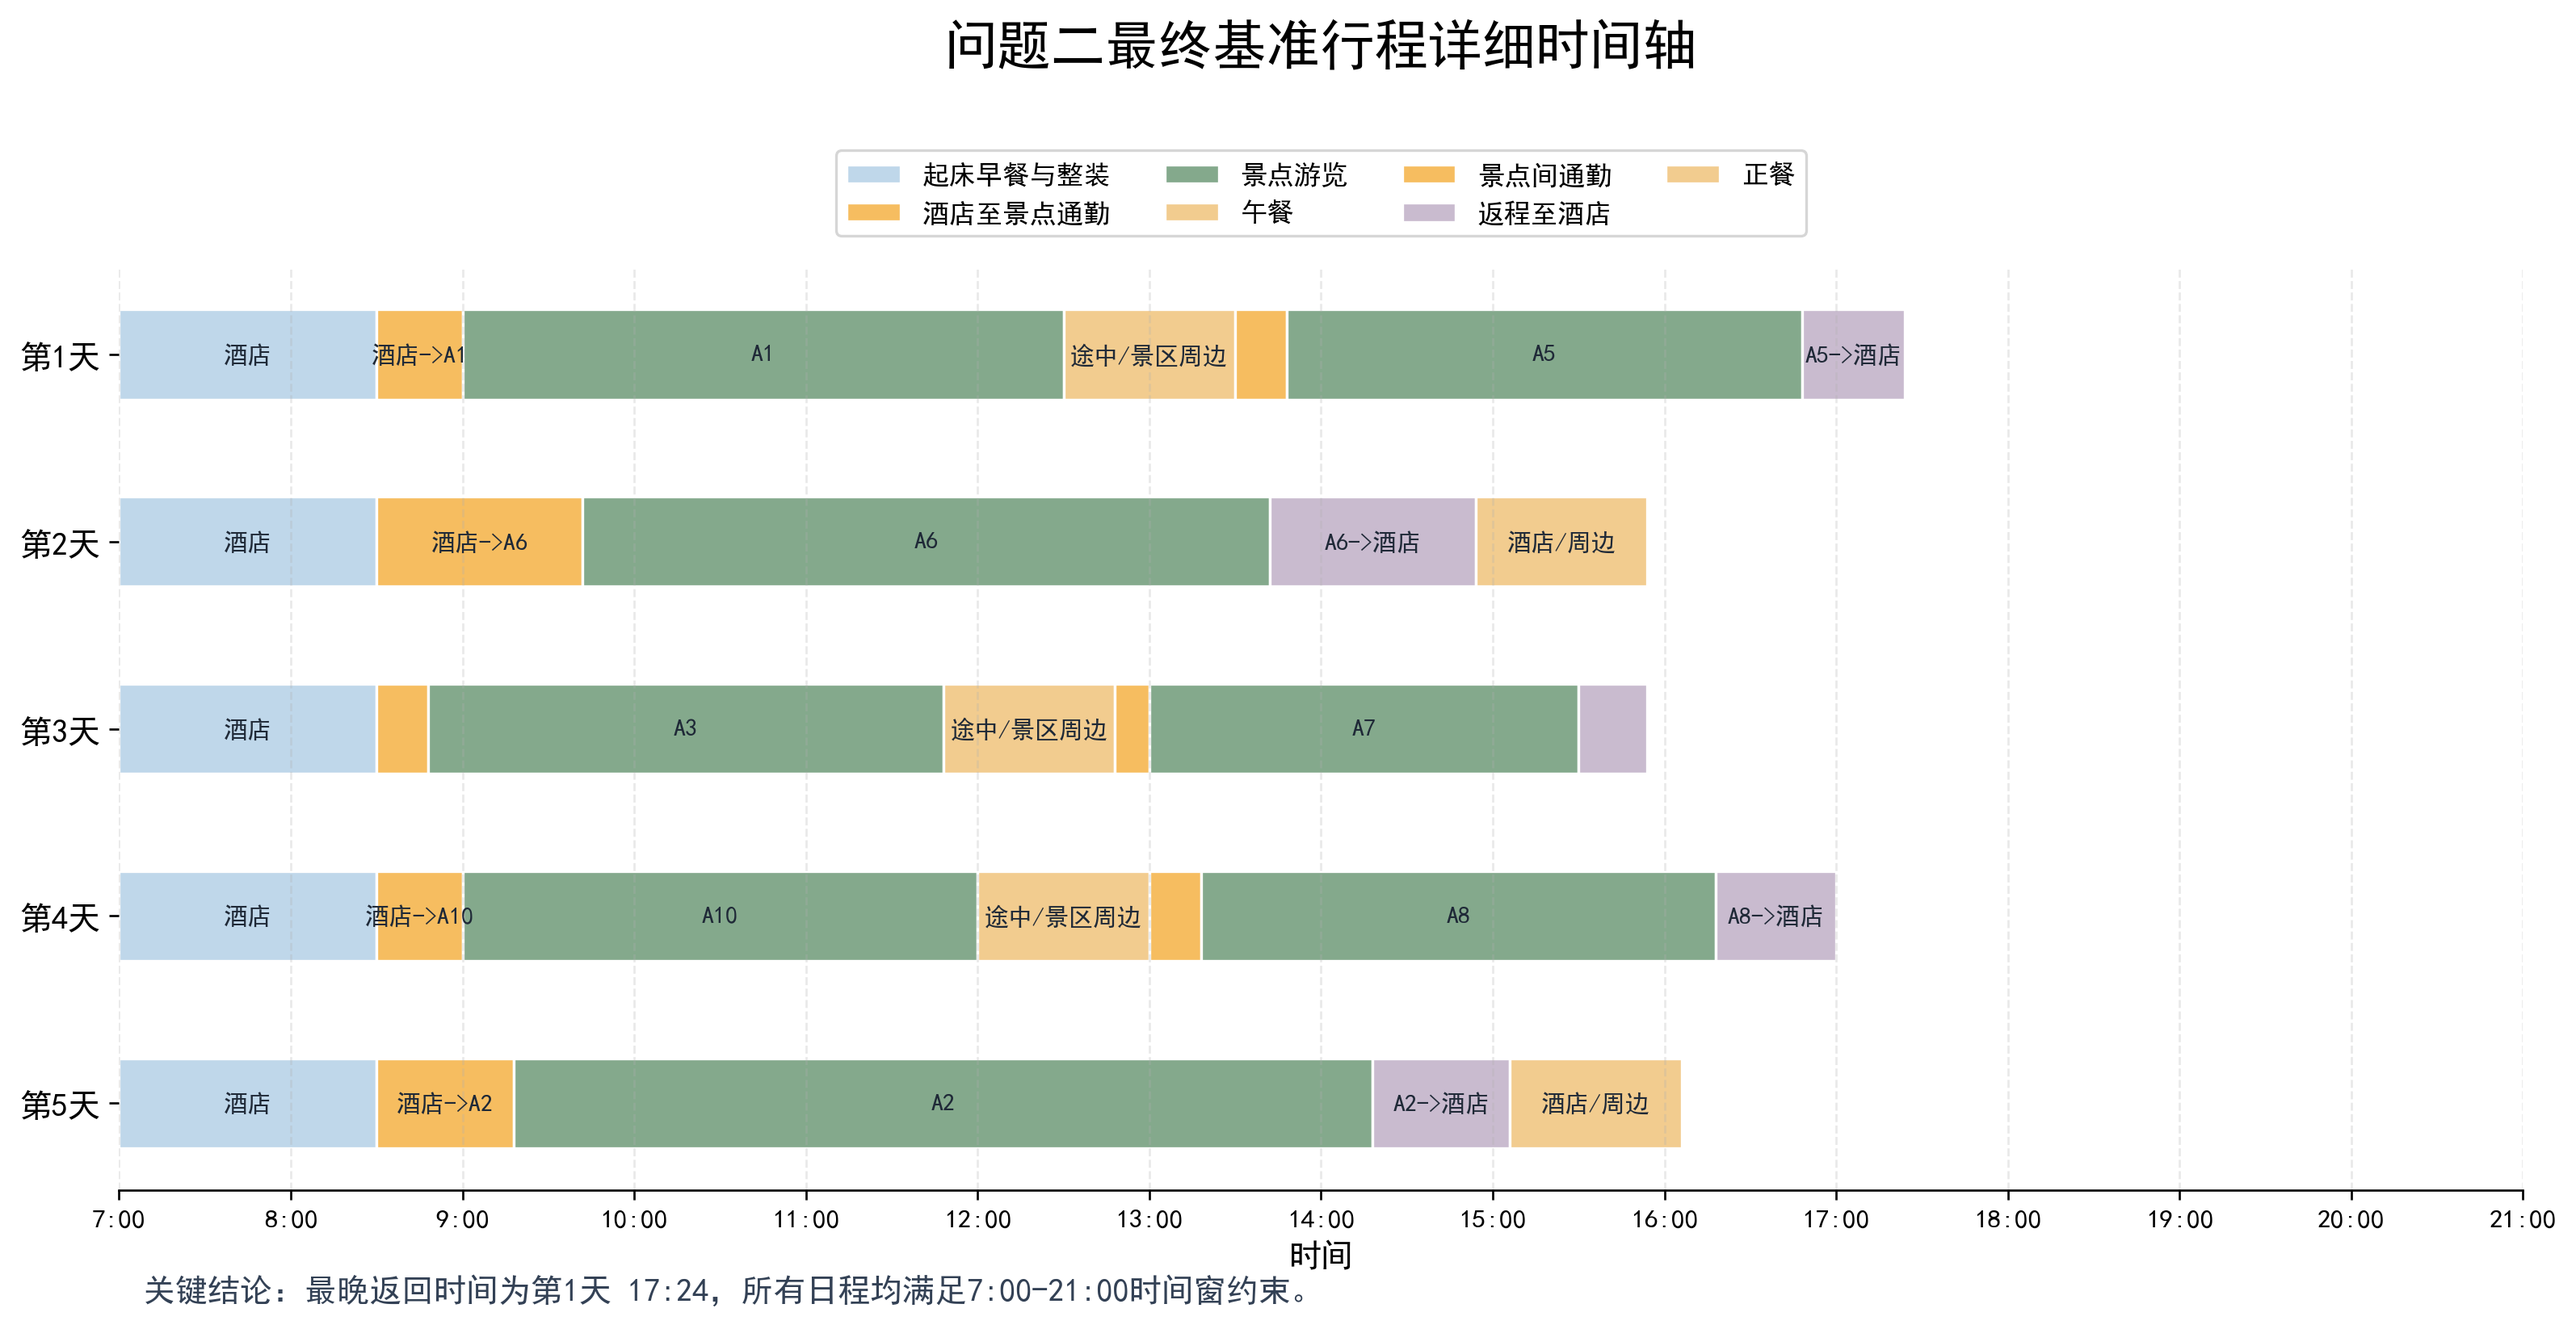
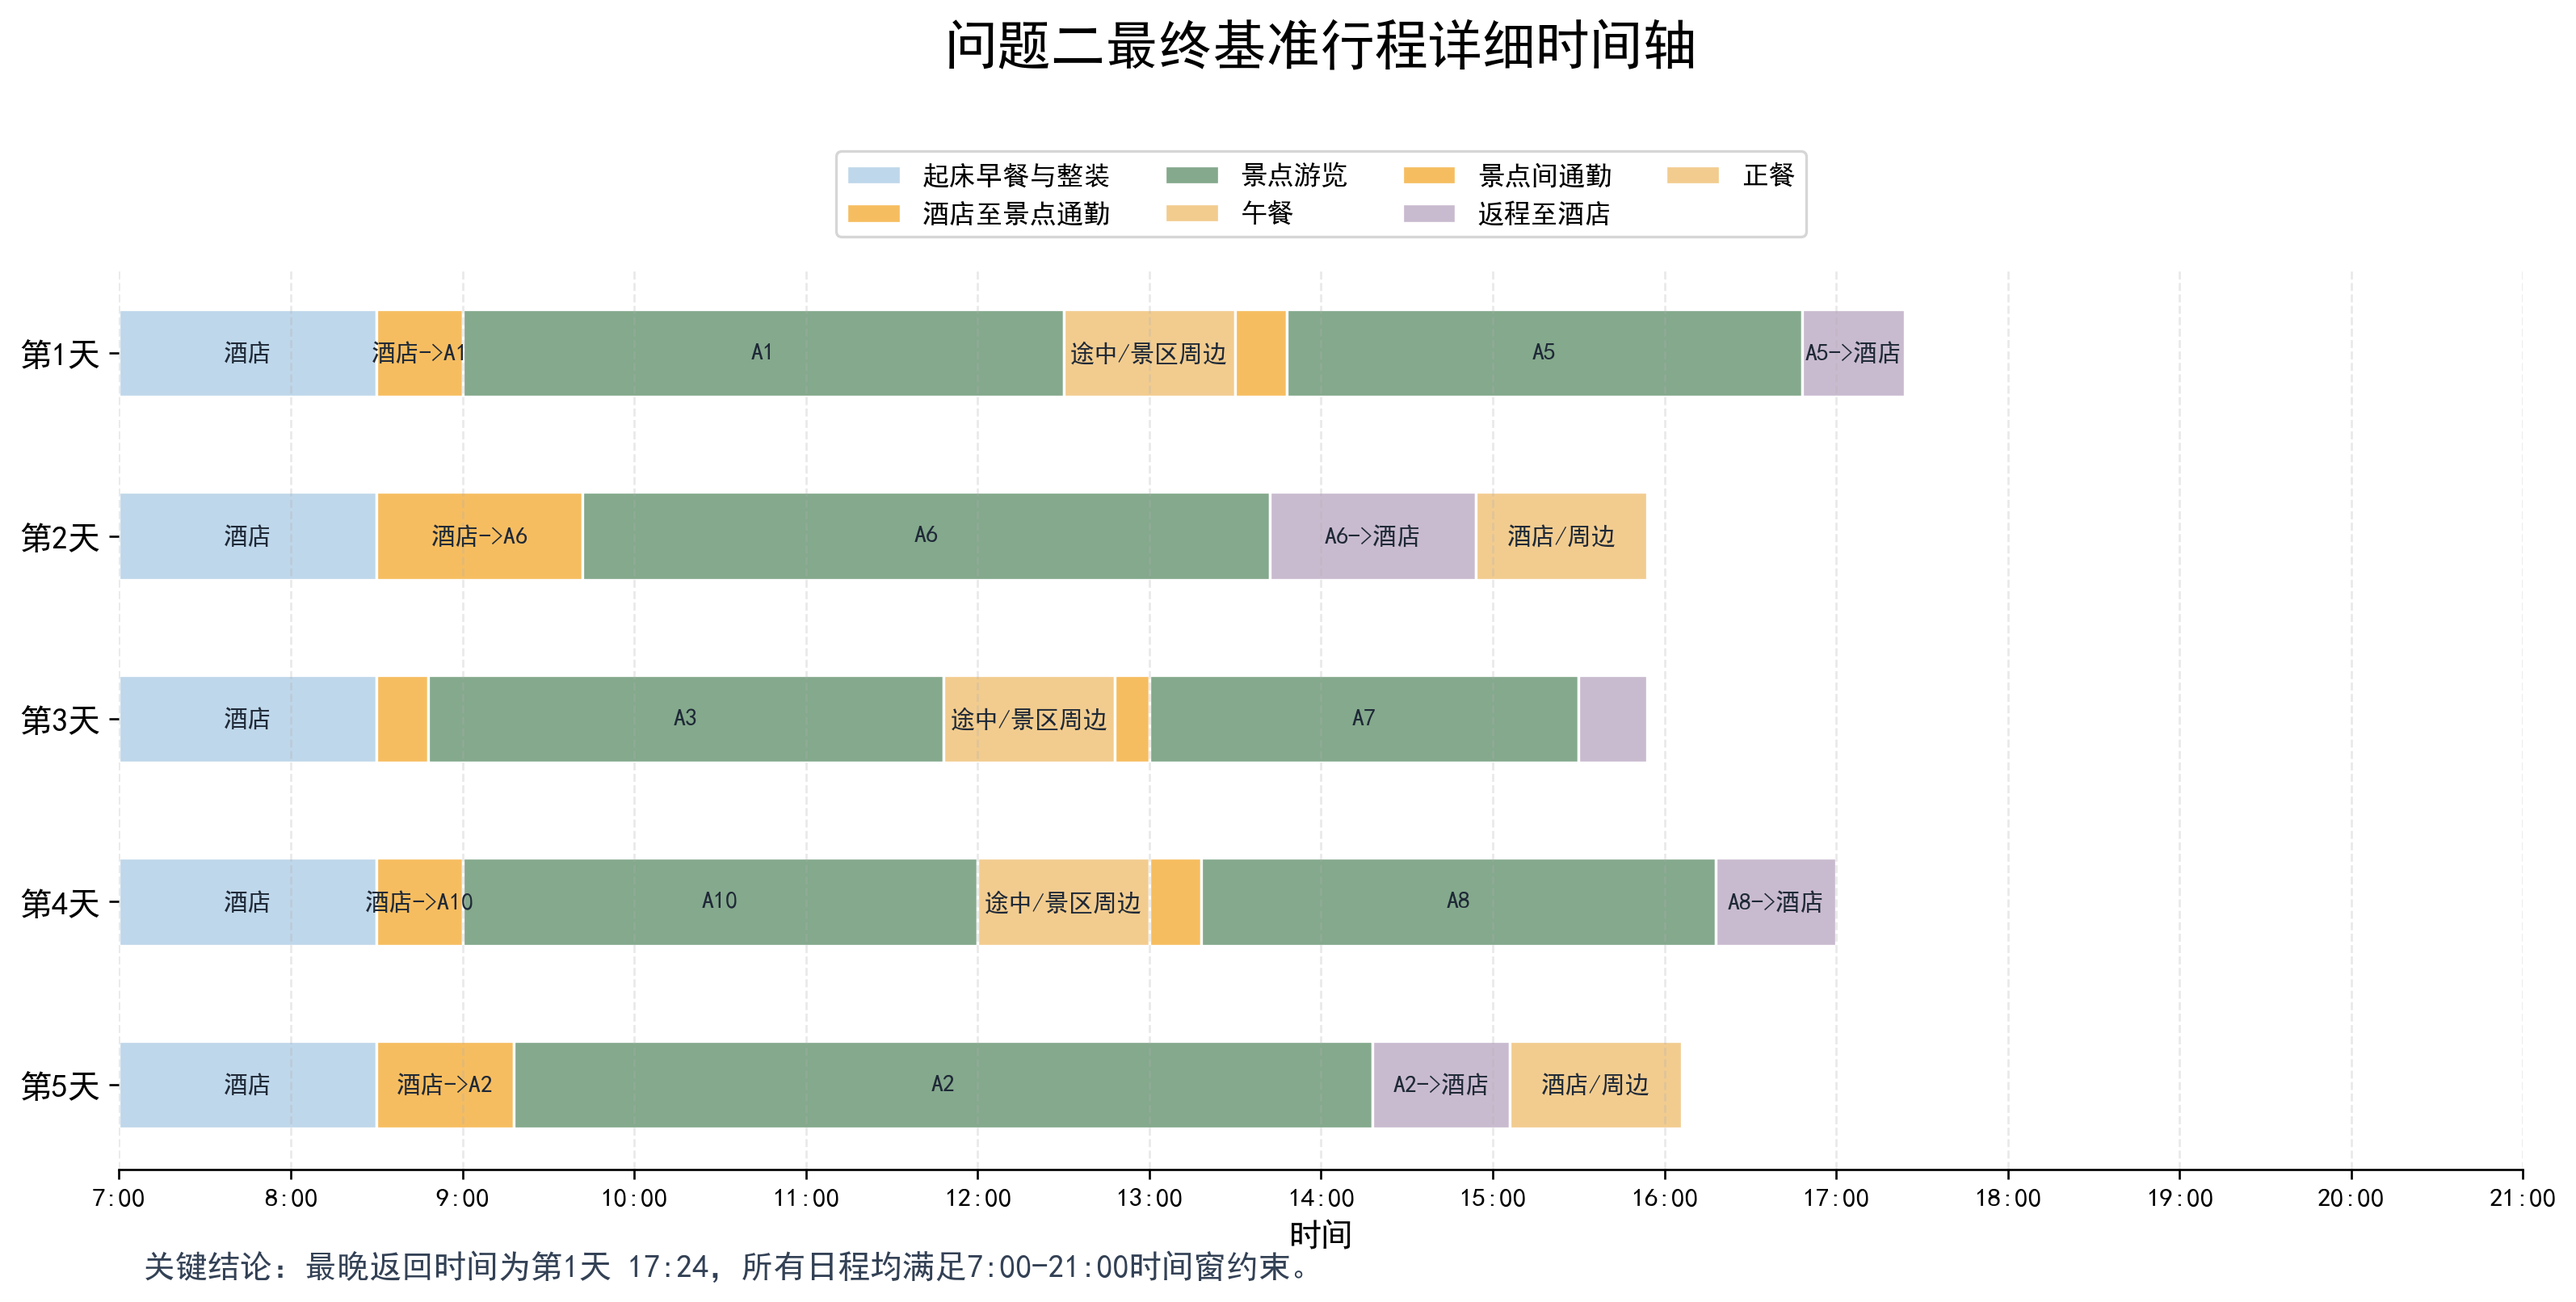
修改后 问题一二

diff --git a/code/render_problem2_schedule_images.py b/code/render_problem2_schedule_images.py
@@ -1,5 +1,5 @@
 """
-Render clean images for Problem 2 itinerary and timeline tables.
+Render clean images for Problem 2 itinerary and timeline.
 
 Dependencies:
     pip install pandas matplotlib
@@ -27,7 +27,7 @@ FIGURE_DIR = ROOT / "results" / "figures"
 
 
 def setup_style() -> None:
-    """Use common Chinese fonts and a restrained paper-style palette."""
+    """Configure a restrained paper-style plotting theme."""
 
     plt.rcParams["font.sans-serif"] = ["SimHei", "Microsoft YaHei", "Arial Unicode MS"]
     plt.rcParams["axes.unicode_minus"] = False
@@ -35,18 +35,40 @@ def setup_style() -> None:
 
 
 def time_to_hour(value: str) -> float:
-    """Convert HH:MM to decimal hour for timeline plotting."""
+    """Convert HH:MM text into decimal hours for Gantt plotting."""
 
-    hour, minute = value.split(":")
+    hour, minute = str(value).split(":")
     return int(hour) + int(minute) / 60
 
 
+def format_hour(value: float) -> str:
+    """Convert decimal hours into HH:MM text."""
+
+    total_minutes = int(round(value * 60))
+    hour = total_minutes // 60
+    minute = total_minutes % 60
+    return f"{hour:02d}:{minute:02d}"
+
+
+def read_csv_utf8(path: Path) -> pd.DataFrame:
+    """Read CSV with BOM-friendly UTF-8 encoding."""
+
+    if not path.exists():
+        raise FileNotFoundError(f"找不到输入文件：{path}")
+    return pd.read_csv(path, encoding="utf-8-sig")
+
+
 def render_itinerary_overview(itinerary: pd.DataFrame) -> Path:
-    """Render a compact 5-day itinerary table."""
+    """Render a compact overview table for the 5-day baseline itinerary."""
+
+    required_columns = ["日期", "访问顺序", "景点名称", "行车时间min", "总活动耗时h", "预计回到酒店"]
+    missing = [col for col in required_columns if col not in itinerary.columns]
+    if missing:
+        raise ValueError(f"行程总览表缺少字段：{missing}")
 
     display = itinerary.copy()
-    display["行车时间"] = display["行车时间min"].map(lambda x: f"{x:.0f} min")
-    display["总活动耗时"] = display["总活动耗时h"].map(lambda x: f"{x:.1f} h")
+    display["行车时间"] = display["行车时间min"].map(lambda value: f"{float(value):.0f} min")
+    display["总活动耗时"] = display["总活动耗时h"].map(lambda value: f"{float(value):.1f} h")
     display = display[["日期", "访问顺序", "景点名称", "行车时间", "总活动耗时", "预计回到酒店"]]
 
     fig, ax = plt.subplots(figsize=(15, 5.8))
@@ -68,7 +90,7 @@ def render_itinerary_overview(itinerary: pd.DataFrame) -> Path:
     header_color = "#D9EAF7"
     stripe_color = "#F6F8FA"
     edge_color = "#B9C4CC"
-    for (row, col), cell in table.get_celld().items():
+    for (row, _), cell in table.get_celld().items():
         cell.set_edgecolor(edge_color)
         cell.set_linewidth(0.8)
         if row == 0:
@@ -79,11 +101,11 @@ def render_itinerary_overview(itinerary: pd.DataFrame) -> Path:
         else:
             cell.set_facecolor("white")
 
-    max_duration = display["总活动耗时"].str.replace(" h", "", regex=False).astype(float).max()
-    min_duration = display["总活动耗时"].str.replace(" h", "", regex=False).astype(float).min()
+    max_duration = itinerary["总活动耗时h"].astype(float).max()
+    min_duration = itinerary["总活动耗时h"].astype(float).min()
     note = (
-        f"关键结论：5天均在21:00前返回酒店，总活动耗时极差为{max_duration - min_duration:.1f}小时，"
-        "整体节奏较均衡。"
+        f"关键结论：5天均在21:00前返回酒店，总活动耗时极差为"
+        f"{max_duration - min_duration:.1f}小时，整体节奏较均衡。"
     )
     ax.text(0.02, 0.02, note, transform=ax.transAxes, fontsize=12, color="#334155")
 
@@ -96,13 +118,18 @@ def render_itinerary_overview(itinerary: pd.DataFrame) -> Path:
 def render_timeline_gantt(timeline: pd.DataFrame) -> Path:
     """Render a readable Gantt-style timeline chart."""
 
+    required_columns = ["日期", "环节", "地点", "开始时间", "结束时间"]
+    missing = [col for col in required_columns if col not in timeline.columns]
+    if missing:
+        raise ValueError(f"详细时间轴表缺少字段：{missing}")
+
     data = timeline.copy()
     data["start_h"] = data["开始时间"].map(time_to_hour)
     data["end_h"] = data["结束时间"].map(time_to_hour)
     data["duration_h"] = data["end_h"] - data["start_h"]
 
-    days = ["第1天", "第2天", "第3天", "第4天", "第5天"]
-    y_positions = {day: len(days) - idx for idx, day in enumerate(days)}
+    days = sorted(data["日期"].unique(), key=lambda text: int(str(text).replace("第", "").replace("天", "")))
+    y_positions = {day: len(days) - index for index, day in enumerate(days)}
     colors = {
         "起床早餐与整装": "#BFD7EA",
         "酒店至景点通勤": "#F6BD60",
@@ -114,7 +141,7 @@ def render_timeline_gantt(timeline: pd.DataFrame) -> Path:
         "等待开园": "#DAD7CD",
     }
 
-    fig, ax = plt.subplots(figsize=(16, 7))
+    fig, ax = plt.subplots(figsize=(16, 7.5))
     for _, row in data.iterrows():
         y = y_positions[row["日期"]]
         label = row["环节"]
@@ -128,12 +155,11 @@ def render_timeline_gantt(timeline: pd.DataFrame) -> Path:
             linewidth=1.0,
             label=label,
         )
-        text = row["地点"]
         if row["duration_h"] >= 0.45:
             ax.text(
                 row["start_h"] + row["duration_h"] / 2,
                 y,
-                text,
+                row["地点"],
                 va="center",
                 ha="center",
                 fontsize=9,
@@ -141,10 +167,10 @@ def render_timeline_gantt(timeline: pd.DataFrame) -> Path:
             )
 
     handles, labels = ax.get_legend_handles_labels()
-    unique = dict(zip(labels, handles))
+    unique_legend = dict(zip(labels, handles))
     ax.legend(
-        unique.values(),
-        unique.keys(),
+        unique_legend.values(),
+        unique_legend.keys(),
         loc="lower center",
         bbox_to_anchor=(0.5, 1.02),
         ncol=4,
@@ -155,7 +181,7 @@ def render_timeline_gantt(timeline: pd.DataFrame) -> Path:
     ax.set_yticklabels(days, fontsize=12)
     ax.set_xlim(7, 21)
     ax.set_xticks(range(7, 22))
-    ax.set_xticklabels([f"{hour}:00" for hour in range(7, 22)], rotation=0)
+    ax.set_xticklabels([f"{hour}:00" for hour in range(7, 22)])
     ax.set_xlabel("时间", fontsize=12)
     ax.set_title("问题二最终基准行程详细时间轴", fontsize=20, fontweight="bold", pad=76)
     ax.grid(axis="x", linestyle="--", alpha=0.28)
@@ -164,18 +190,14 @@ def render_timeline_gantt(timeline: pd.DataFrame) -> Path:
     day_end = data.groupby("日期")["end_h"].max()
     latest_day = day_end.idxmax()
     latest_time = day_end.max()
-    ax.text(
-        0.01,
-        -0.12,
-        f"关键结论：最晚返回时间为{latest_day} {int(latest_time):02d}:{int(round((latest_time % 1) * 60)):02d}，"
-        "所有日程均满足7:00-21:00时间窗约束。",
-        transform=ax.transAxes,
-        fontsize=12,
-        color="#334155",
+    note = (
+        f"关键结论：最晚返回时间为{latest_day} {format_hour(latest_time)}，"
+        "所有日程均满足7:00-21:00时间窗约束。"
     )
+    ax.text(0.01, -0.12, note, transform=ax.transAxes, fontsize=12, color="#334155")
 
     output = FIGURE_DIR / "problem2_timeline_gantt.png"
-    fig.subplots_adjust(top=0.84, bottom=0.16)
+    fig.subplots_adjust(top=0.78, bottom=0.16)
     fig.savefig(output, dpi=240, bbox_inches="tight")
     plt.close(fig)
     return output
@@ -184,10 +206,13 @@ def render_timeline_gantt(timeline: pd.DataFrame) -> Path:
 def main() -> None:
     setup_style()
     FIGURE_DIR.mkdir(parents=True, exist_ok=True)
-    itinerary = pd.read_csv(PROCESSED_DIR / "problem2_baseline_itinerary.csv", encoding="utf-8-sig")
-    timeline = pd.read_csv(PROCESSED_DIR / "problem2_baseline_timeline.csv", encoding="utf-8-sig")
+
+    itinerary = read_csv_utf8(PROCESSED_DIR / "problem2_baseline_itinerary.csv")
+    timeline = read_csv_utf8(PROCESSED_DIR / "problem2_baseline_timeline.csv")
+
     overview_path = render_itinerary_overview(itinerary)
     timeline_path = render_timeline_gantt(timeline)
+
     print("已生成图片：")
     print(f"- {overview_path}")
     print(f"- {timeline_path}")
